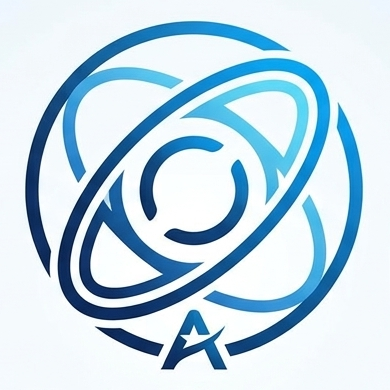
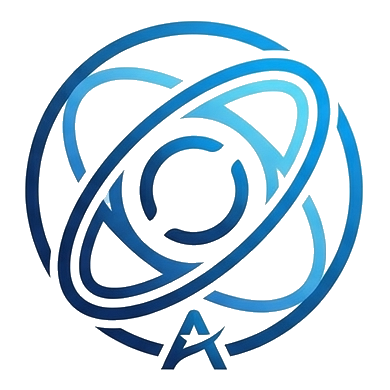
Remove emblem background and sync themes

diff --git a/notlar.html b/notlar.html
@@ -1197,11 +1197,11 @@
     const value = theme === 'dark' ? 'dark' : 'light';
     document.body.dataset.theme = value;
     document.documentElement.style.colorScheme = value;
-    localStorage.setItem('planner-theme', value);
     document.getElementById('themeText').textContent = value === 'dark' ? 'Açık' : 'Koyu';
     document.getElementById('themeIcon').textContent = value === 'dark' ? '☀' : '🌙';
   }
 
+  const THEME_STORAGE_KEY = 'yorunge-theme';
   document.getElementById('newNoteBtn').addEventListener('click', addNote);
   document.getElementById('deleteNoteBtn').addEventListener('click', deleteCurrentNote);
   document.getElementById('uploadPhotoBtn').addEventListener('click', () => elements.photoInput.click());
@@ -1244,12 +1244,28 @@
   elements.panel.addEventListener('pointermove', movePanel);
   elements.panel.addEventListener('pointerup', () => { panelDrag = null; });
   elements.panel.addEventListener('pointercancel', () => { panelDrag = null; });
-  themeToggle.addEventListener('click', () => applyTheme(document.body.dataset.theme === 'dark' ? 'light' : 'dark'));
+  themeToggle.addEventListener('click', () => {
+    const nextTheme = document.body.dataset.theme === 'dark' ? 'light' : 'dark';
+    applyTheme(nextTheme);
+    localStorage.setItem(THEME_STORAGE_KEY, nextTheme);
+  });
+  window.addEventListener('storage', (event) => {
+    if (event.key === THEME_STORAGE_KEY) {
+      applyTheme(event.newValue || 'light');
+    }
+  });
   window.addEventListener('pagehide', flushSave);
   document.addEventListener('visibilitychange', () => { if (document.visibilityState === 'hidden') flushSave(); });
 
   async function initialize() {
-    applyTheme(localStorage.getItem('planner-theme') || 'light');
+    const savedTheme = localStorage.getItem(THEME_STORAGE_KEY)
+      || localStorage.getItem('solver-theme')
+      || localStorage.getItem('planner-theme')
+      || 'light';
+    applyTheme(savedTheme);
+    if (localStorage.getItem(THEME_STORAGE_KEY) === null) {
+      localStorage.setItem(THEME_STORAGE_KEY, document.body.dataset.theme);
+    }
     setupPalette();
     try {
       database = await openDatabase();

diff --git a/pomodoro.html b/pomodoro.html
@@ -472,10 +472,10 @@
     const value = theme === 'dark' ? 'dark' : 'light';
     document.body.dataset.theme = value;
     document.documentElement.style.colorScheme = value;
-    localStorage.setItem('planner-theme', value);
     elements.themeText.textContent = value === 'dark' ? 'Açık' : 'Koyu';
     elements.themeIcon.textContent = value === 'dark' ? '☀' : '🌙';
   }
+  const THEME_STORAGE_KEY = 'yorunge-theme';
 
   elements.profile.addEventListener('change', () => {
     activeProfile = elements.profile.value;
@@ -527,14 +527,30 @@
     elements.alarm.volume = Number(event.target.value);
     localStorage.setItem('pomo_alarm_volume', event.target.value);
   });
-  elements.themeToggle.addEventListener('click', () => applyTheme(document.body.dataset.theme === 'dark' ? 'light' : 'dark'));
+  elements.themeToggle.addEventListener('click', () => {
+    const nextTheme = document.body.dataset.theme === 'dark' ? 'light' : 'dark';
+    applyTheme(nextTheme);
+    localStorage.setItem(THEME_STORAGE_KEY, nextTheme);
+  });
+  window.addEventListener('storage', (event) => {
+    if (event.key === THEME_STORAGE_KEY) {
+      applyTheme(event.newValue || 'light');
+    }
+  });
 
   renderProfiles();
   syncInputs();
   renderHistory();
   updateModeButtons();
   updateDisplay();
-  applyTheme(localStorage.getItem('planner-theme') || 'light');
+  const savedTheme = localStorage.getItem(THEME_STORAGE_KEY)
+    || localStorage.getItem('solver-theme')
+    || localStorage.getItem('planner-theme')
+    || 'light';
+  applyTheme(savedTheme);
+  if (localStorage.getItem(THEME_STORAGE_KEY) === null) {
+    localStorage.setItem(THEME_STORAGE_KEY, document.body.dataset.theme);
+  }
   setInterval(tick, 250);
 })();
 </script>

diff --git a/planlayici.html b/planlayici.html
@@ -1895,23 +1895,36 @@
   const themeIcon = document.getElementById('themeIcon');
   const analysisToggle = document.getElementById('analysisToggle');
   const analysisPanel = document.getElementById('analysisPanel');
+  const THEME_STORAGE_KEY = 'yorunge-theme';
 
   function applyTheme(themeName) {
     const theme = themeName === 'dark' ? 'dark' : 'light';
     document.body.setAttribute('data-theme', theme);
     document.documentElement.style.colorScheme = theme;
-    localStorage.setItem('planner-theme', theme);
     themeText.textContent = theme === 'dark' ? 'Açık' : 'Koyu';
     themeIcon.textContent = theme === 'dark' ? '☀' : '🌙';
     renderPlanner();
   }
 
-  const savedTheme = localStorage.getItem('planner-theme') || 'light';
+  const savedTheme = localStorage.getItem(THEME_STORAGE_KEY)
+    || localStorage.getItem('solver-theme')
+    || localStorage.getItem('planner-theme')
+    || 'light';
   applyTheme(savedTheme);
+  if (localStorage.getItem(THEME_STORAGE_KEY) === null) {
+    localStorage.setItem(THEME_STORAGE_KEY, document.body.getAttribute('data-theme'));
+  }
 
   themeToggle.addEventListener('click', () => {
     const nextTheme = document.body.getAttribute('data-theme') === 'dark' ? 'light' : 'dark';
     applyTheme(nextTheme);
+    localStorage.setItem(THEME_STORAGE_KEY, nextTheme);
+  });
+
+  window.addEventListener('storage', (event) => {
+    if (event.key === THEME_STORAGE_KEY) {
+      applyTheme(event.newValue || 'light');
+    }
   });
 
   analysisToggle.addEventListener('click', () => {

diff --git a/index.html b/index.html
@@ -341,21 +341,35 @@
   const themeToggle = document.getElementById('themeToggle');
   const themeText = document.getElementById('themeText');
   const themeIcon = document.getElementById('themeIcon');
+  const THEME_STORAGE_KEY = 'yorunge-theme';
 
   function applyTheme(themeName) {
     const theme = themeName === 'dark' ? 'dark' : 'light';
     document.body.setAttribute('data-theme', theme);
-    localStorage.setItem('solver-theme', theme);
+    document.documentElement.style.colorScheme = theme;
     themeText.textContent = theme === 'dark' ? 'Açık' : 'Koyu';
     themeIcon.textContent = theme === 'dark' ? '☀' : '🌙';
   }
 
-  const savedTheme = localStorage.getItem('solver-theme') || 'light';
+  const savedTheme = localStorage.getItem(THEME_STORAGE_KEY)
+    || localStorage.getItem('solver-theme')
+    || localStorage.getItem('planner-theme')
+    || 'light';
   applyTheme(savedTheme);
+  if (localStorage.getItem(THEME_STORAGE_KEY) === null) {
+    localStorage.setItem(THEME_STORAGE_KEY, document.body.getAttribute('data-theme'));
+  }
 
   themeToggle.addEventListener('click', () => {
     const nextTheme = document.body.getAttribute('data-theme') === 'dark' ? 'light' : 'dark';
     applyTheme(nextTheme);
+    localStorage.setItem(THEME_STORAGE_KEY, nextTheme);
+  });
+
+  window.addEventListener('storage', (event) => {
+    if (event.key === THEME_STORAGE_KEY) {
+      applyTheme(event.newValue || 'light');
+    }
   });
 
   keyInput.value = localStorage.getItem('ai_key') || '';
